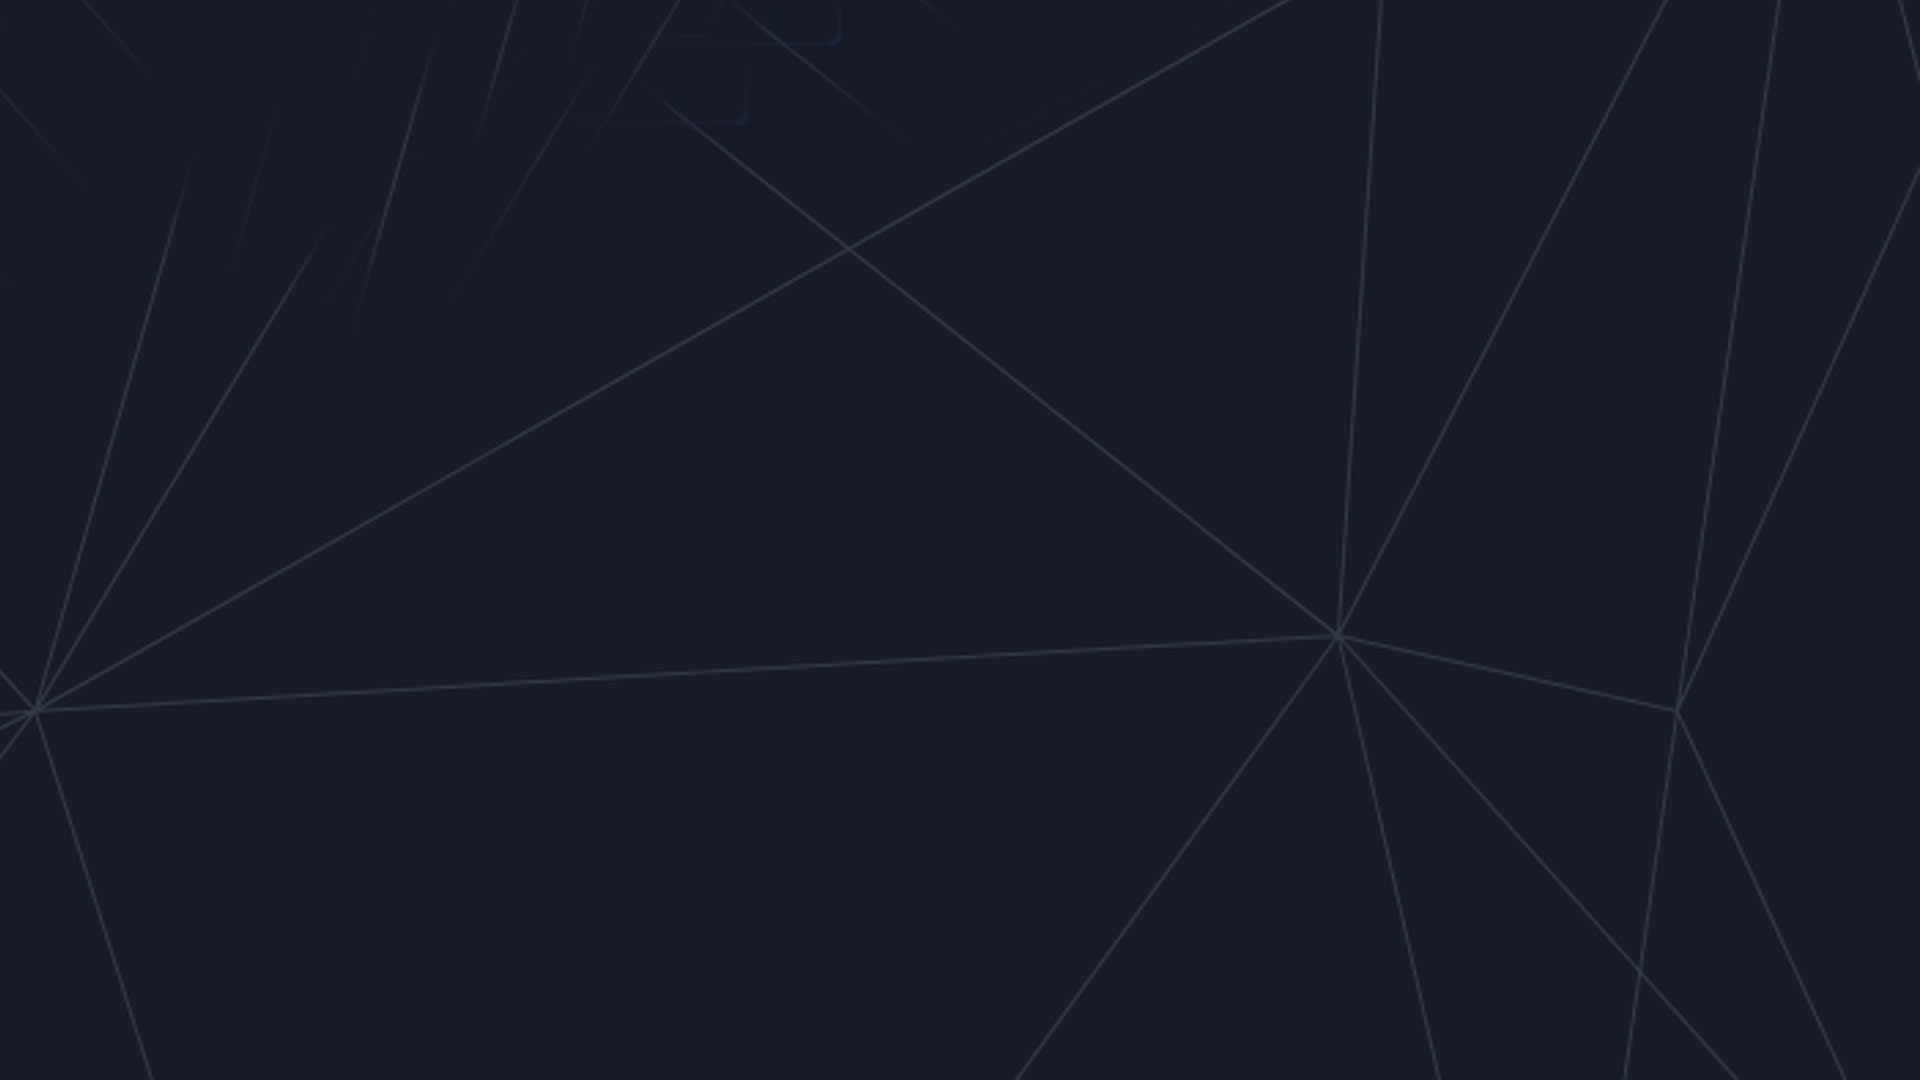
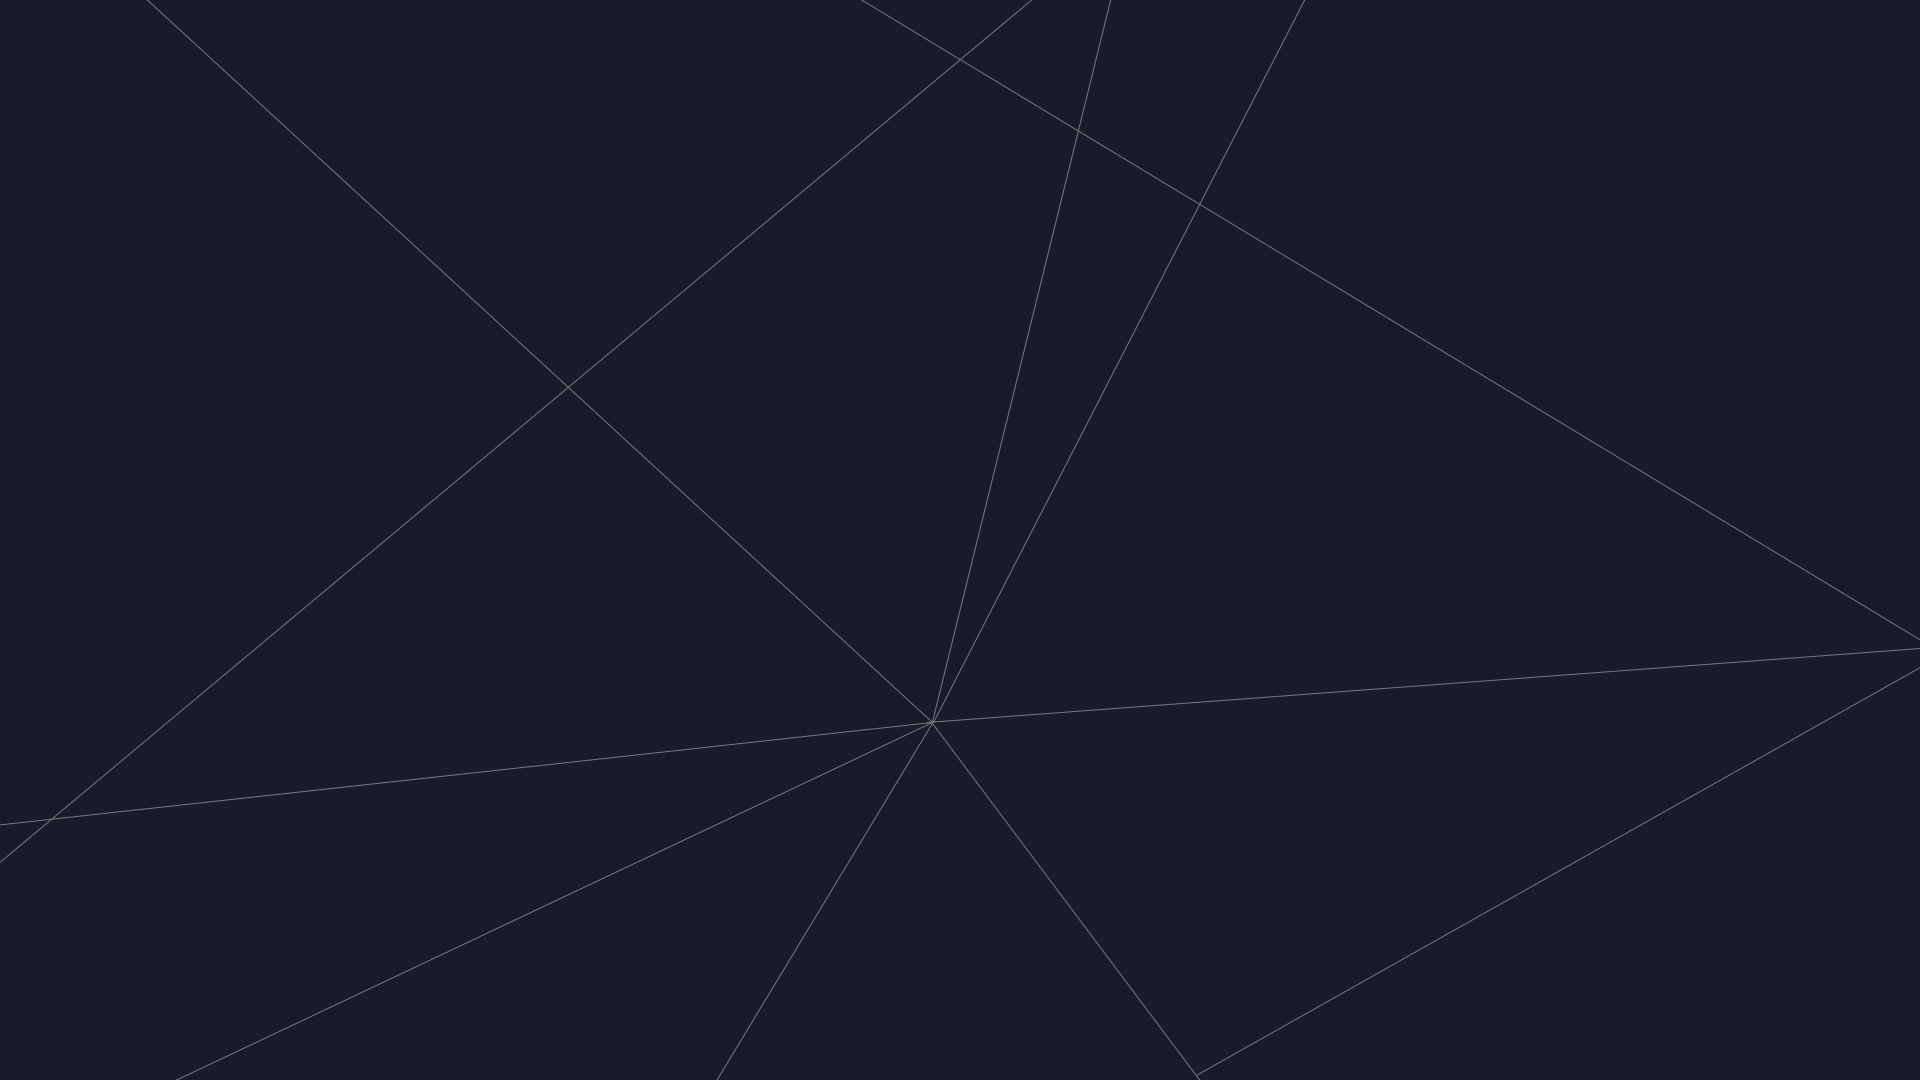
login form completed

Changed region(s): [[0.4688, 0.6417, 0.5, 0.6722], [0.0, 0.6417, 0.0312, 0.6722]]

diff --git a/src/screens/LoginScreen.js b/src/screens/LoginScreen.js
@@ -1,38 +1,88 @@
-import React, {useState, useEffect} from 'react';
+import React, {useEffect, useState} from 'react';
 import {Link} from "react-router-dom";
-import {Form, Button, Row, Col} from "react-bootstrap";
+import {Form, Button, Tabs, Tab, Container, Col} from "react-bootstrap";
 
 const LoginScreen = () => {
     const [email, setEmail] = useState('')
     const [password, setPassword] = useState('')
+    const [key, setKey] = useState('signIn')
+
+    const isFocused = (e) => {
+        let getParent = e.target.parentNode
+        getParent.querySelector('label').style.top = "13px"
+    }
+    const isBlurred = (e) => {
+        let getParent = e.target.parentNode
+        getParent.querySelector('label').style.top = "43px"
+    }
 
     return (
-        <>
-            <h1>Sign In</h1>
+        <Container>
+            <Col className='mx-auto' md={6}>
+                <Tabs
+                    className='controlled-tab-singInUp mt-5'
+                    id="controlled-tab"
+                    activeKey={key}
+                    onSelect={(k) => setKey(k)}
+                >
+                    <Tab eventKey="signIn" title="ورود">
+                        <Form className='form-bg-darkBlue'>
+                            <Form.Group controlId='email'>
+                                <Form.Label>ایمیل</Form.Label>
+                                <Form.Control onBlur={isBlurred}
+                                              onFocus={isFocused} type='email' value={email}
+                                              onChange={(e) => setEmail(e.target.value)}>
+                                </Form.Control>
+                            </Form.Group>
 
-            <Form>
-                <Form.Group controlId='email'>
-                    <Form.Label>Email Address</Form.Label>
-                    <Form.Control type='email' placeholder='Enter email' value={email}
-                                  onChange={(e) => setEmail(e.target.value)}>
-                    </Form.Control>
-                </Form.Group>
+                            <Form.Group controlId='password'>
+                                <Form.Label>رمز عبور</Form.Label>
+                                <Form.Control onBlur={isBlurred}
+                                              onFocus={isFocused} type='password'
+                                              value={password}
+                                              onChange={(e) => setPassword(e.target.value)}>
+                                </Form.Control>
+                            </Form.Group>
 
-                <Form.Group controlId='password'>
-                    <Form.Label>Password</Form.Label>
-                    <Form.Control type='password' placeholder='Enter password' value={password}
-                                  onChange={(e) => setPassword(e.target.value)}>
-                    </Form.Control>
-                </Form.Group>
-
-                <Button type='submit' variant='primary'>
-                    Sign In
-                </Button>
-
-            </Form>
+                            <Button className='btn-block custom-button-login' type='submit' variant='primary'>
+                                ورود
+                            </Button>
+                            <Link className='w-100 text-center d-flex justify-content-center mt-2 text-color ' to={'/forgotPassword'}>
+                                فراموشی رمز عبور
+                            </Link>
+                        </Form>
+                    </Tab>
 
 
-        </>
+
+                    <Tab eventKey="register" title="ثبت نام">
+                        <Form className='form-bg-darkBlue'>
+                            <Form.Group controlId='email'>
+                                <Form.Label>ایمیل</Form.Label>
+                                <Form.Control onBlur={isBlurred}
+                                              onFocus={isFocused} type='email' value={email}
+                                              onChange={(e) => setEmail(e.target.value)}>
+                                </Form.Control>
+                            </Form.Group>
+
+                            <Form.Group controlId='password'>
+                                <Form.Label>رمز عبور</Form.Label>
+                                <Form.Control onBlur={isBlurred}
+                                              onFocus={isFocused} type='password'
+                                              value={password}
+                                              onChange={(e) => setPassword(e.target.value)}>
+                                </Form.Control>
+                            </Form.Group>
+
+                            <Button type='submit' variant='primary'>
+                                Sign In
+                            </Button>
+                        </Form>
+                    </Tab>
+
+                </Tabs>
+            </Col>
+        </Container>
     );
 };
 

diff --git a/src/App.css b/src/App.css
@@ -43,6 +43,7 @@
 
 body {
     font-family: iransans, serif !important;
+    background-image: url("./images/bg.jpg");
 }
 
 /*burger accordion*/
@@ -124,10 +125,80 @@ Note: Beware of modifying this element as it can break the animations - you shou
     height: 35px;
 }
 
-.btn-sun-moon-active {
-    background-color: #ffffff40;
+.btn-sunMoon-active {
+    background-color: #ffffff40 !important;;
 }
 
+/*
+signup-in page
+*/
+.controlled-tab-singInUp {
+    background-color: #28334E;
+}
+
+.controlled-tab-singInUp a {
+    width: 50%;
+    text-align: center;
+    padding-top: 18px;
+    padding-bottom: 18px;
+    color: #737F92;
+}
+
+.controlled-tab-singInUp a:hover {
+    color: #737F92 !important;
+}
+
+.form-bg-darkBlue {
+    background-color: #1E2841;
+    padding: 1.6rem !important;
+    text-align: right;
+}
+
+.form-bg-darkBlue .form-control {
+    background-color: transparent;
+    padding: 1.375rem 1.375rem;
+    border: 1px solid #999c9e;
+    text-align: right;
+}
+
+.form-bg-darkBlue .form-control:focus {
+    background-color: transparent !important;
+}
+
+.form-bg-darkBlue label {
+    color: #8c8c8c;
+    font-size: 14px;
+    position: relative;
+    cursor: text;
+    right: 18px;
+    top: 43px;
+    padding: 0 7px;
+    background: #1e2841;
+    transition: all .5s;
+}
+
+.nav-tabs .nav-item.show .nav-link, .nav-tabs .nav-link.active {
+    color: white !important;
+    background-color: unset !important;
+    border-color: unset !important;
+    border-bottom: 1px solid #3C78E0 !important;
+}
+
+.nav-tabs {
+    border-bottom: unset !important;
+}
+.text-color{
+    color: #8c8c8c;
+}
+.text-color:hover{
+    color:#8c8c8c !important; ;
+}
+.nav-tabs .nav-link {
+    border: unset !important;
+}
+.custom-button-login{
+    background-color: #376AC6 !important;
+}
 @media (max-width: 560px) {
     .sm-container-width {
         max-width: 245px;

diff --git a/src/components/Header.js b/src/components/Header.js
@@ -11,8 +11,8 @@ const Header = () => {
 
             <Navbar className='dark-blue' variant='dark' expand="lg" collapseOnSelect>
                 <ButtonGroup className='btn-sun-moon' >
-                    <Button className='d-flex align-items-center btn-sun-moon-active' variant="outline-light"><i className="fas fa-moon"></i></Button>
-                    <Button className='d-flex align-items-center' variant="outline-light"><i className="fas fa-sun"></i></Button>
+                    <Button className='d-flex align-items-center btn-sunMoon-active' variant="outline-light"><i className="fas fa-moon"></i></Button>
+                    <Button className='d-flex align-items-center ' variant="outline-light"><i className="fas fa-sun"></i></Button>
                 </ButtonGroup>
                 <Container className='justify-content-end sm-container-width' fluid>
 

diff --git a/src/index.js b/src/index.js
@@ -2,16 +2,11 @@ import React from 'react';
 import ReactDOM from 'react-dom';
 import App from './App';
 import './bootstrap.min.css'
-import reportWebVitals from './reportWebVitals';
 
 ReactDOM.render(
-    <React.StrictMode>
+    <>
         <App/>
-    </React.StrictMode>,
+    </>,
     document.getElementById('root')
 );
 
-// If you want to start measuring performance in your app, pass a function
-// to log results (for example: reportWebVitals(console.log))
-// or send to an analytics endpoint. Learn more: https://bit.ly/CRA-vitals
-reportWebVitals();
